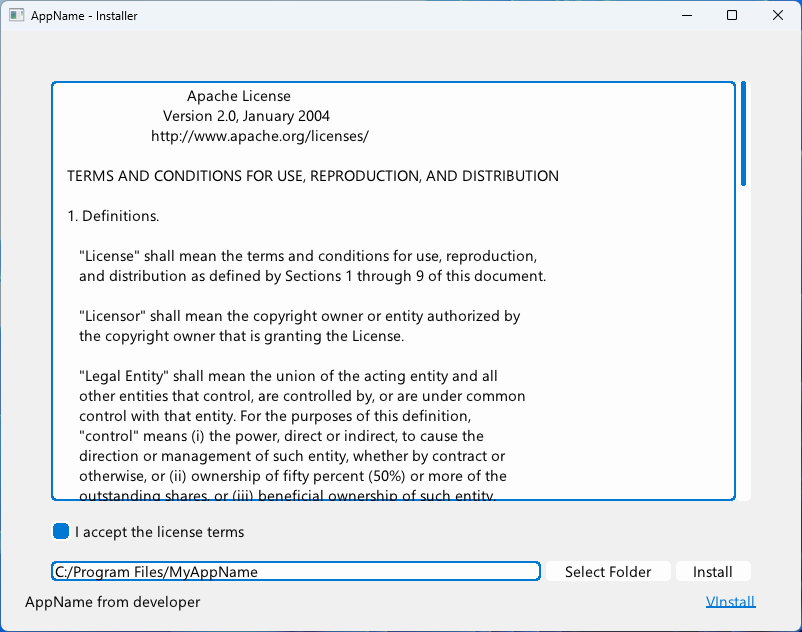
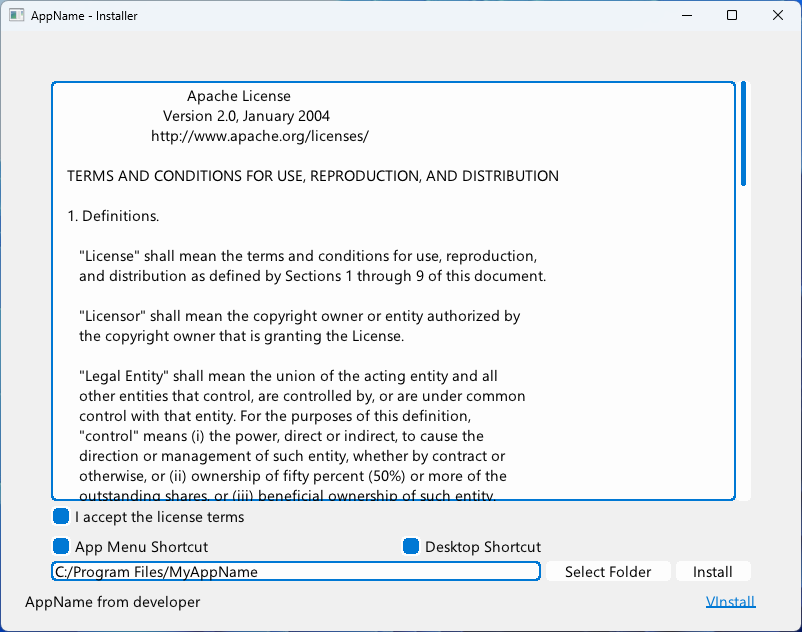
Support shortcuts

diff --git a/README.md b/README.md
@@ -12,7 +12,8 @@ vinstall.run(
     app_name: "AppName",
     install_path:"C:/Program Files/MyAppName",
     license_txt: $embed_file('license.txt'),
-    app_zip: $embed_file('app.zip')
+    app_zip: $embed_file('app.zip'),
+    executable_path: "app.exe"
 )!
 ```
 
@@ -21,6 +22,7 @@ vinstall.run(
 * Integrate with V applications
 * Support Windows 7 & above
 * Single executable for distirbuting
+* Shortcut Support
 
 TODO:
 
@@ -28,7 +30,6 @@ TODO:
 * Uninstall Capabilities
 * Creation of registry (for Windows) and .INI entries
 * Support for passworded and encrypted installs
-* Shortcuts
 * Multilingual Support
     * Turkish
     * French
